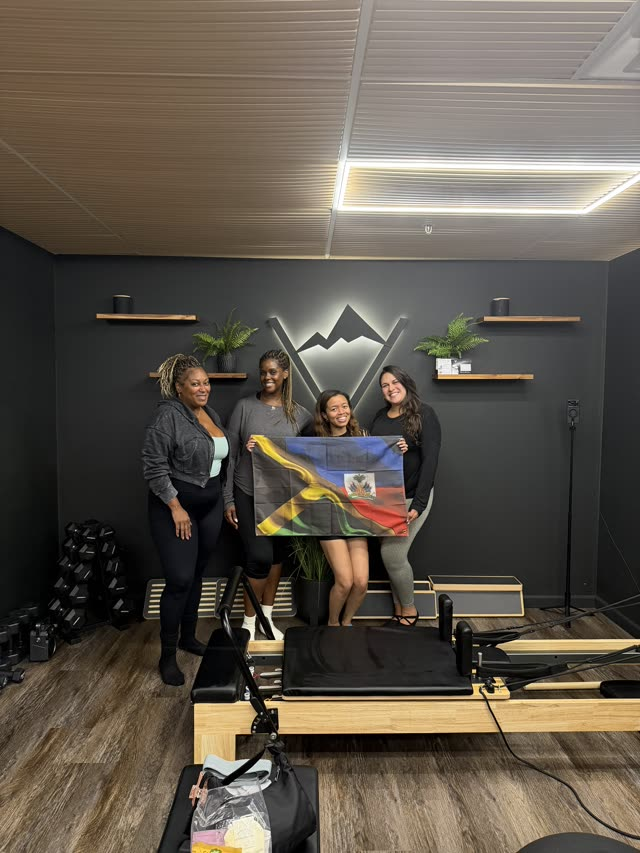
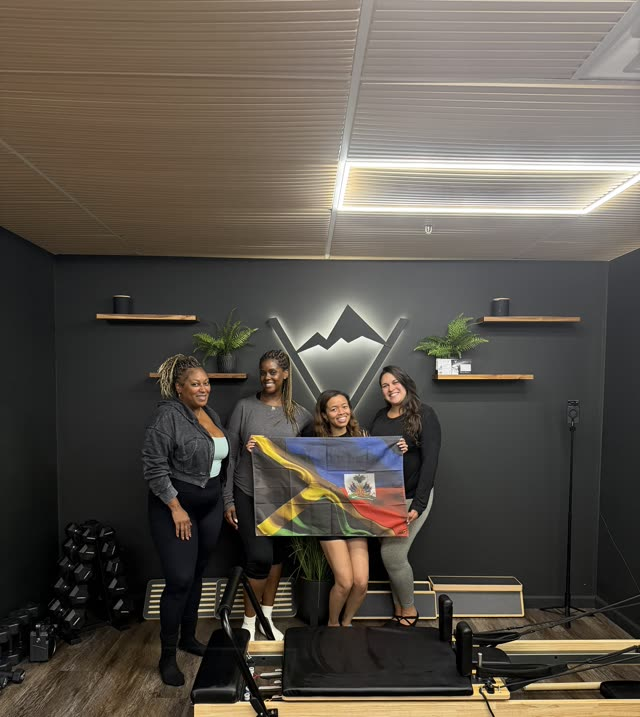
Even out thank-you event photos + add Auric Club box
- Re-crop rk-0913-2/3.jpg to the same aspect ratio as rk-0913-1.jpg so the
  photo strip is uniform.
- Add an "Auric Club" rewards box to RIDDIM_KOMPA_MESI_ANPIL_TEMPLATE.html
  (attend 4, 5th free; check rewards at book.auricmovement.com → Auric Club).

Claude-Session: https://claude.ai/code/session_01C5C3S2hPFNYWpceXrqPaqV

diff --git a/RIDDIM_KOMPA_MESI_ANPIL_TEMPLATE.html b/RIDDIM_KOMPA_MESI_ANPIL_TEMPLATE.html
@@ -128,6 +128,13 @@
               <!-- Merch -->
               <p style="font-family:'Helvetica Neue',Arial,sans-serif;font-size:15px;line-height:1.6;color:#2a2a2a;margin:0 0 20px 0;">Want the Auric look? <a href="https://auric-movement.printify.me/" style="color:#b23a2e;font-weight:bold;text-decoration:underline;">Shop the merch &rarr;</a></p>
 
+              <!-- Auric Club -->
+              <div style="background-color:#efe7d8;border-left:3px solid #b23a2e;border-radius:0 6px 6px 0;padding:16px 18px;margin:2px 0 16px;">
+                <div style="font-family:'Helvetica Neue',Arial,sans-serif;font-size:12px;font-weight:bold;letter-spacing:2px;text-transform:uppercase;color:#b23a2e;margin-bottom:8px;">&#127775; You&rsquo;re in Auric Club</div>
+                <p style="font-family:'Helvetica Neue',Arial,sans-serif;font-size:14px;line-height:1.65;color:#2a2a2a;margin:0 0 10px 0;">By moving with us today you&rsquo;re part of <strong>Auric Club</strong> &mdash; our free rewards tracker. <strong>Attend 4 events and bring a friend to your 5th for free.</strong></p>
+                <p style="font-family:'Helvetica Neue',Arial,sans-serif;font-size:13px;line-height:1.7;color:#5a5248;margin:0;">To check your rewards: go to <a href="https://book.auricmovement.com" style="color:#b23a2e;font-weight:bold;text-decoration:underline;">book.auricmovement.com</a>, tap <strong>Auric Club</strong>, and enter your email.</p>
+              </div>
+
               <!-- Book a class with Niara -->
               <div style="background-color:#efe7d8;border-left:3px solid #b23a2e;border-radius:0 6px 6px 0;padding:16px 18px;margin:2px 0 0;">
                 <div style="font-family:'Helvetica Neue',Arial,sans-serif;font-size:12px;font-weight:bold;letter-spacing:2px;text-transform:uppercase;color:#8a8175;margin-bottom:12px;">Want to move with me again?</div>
